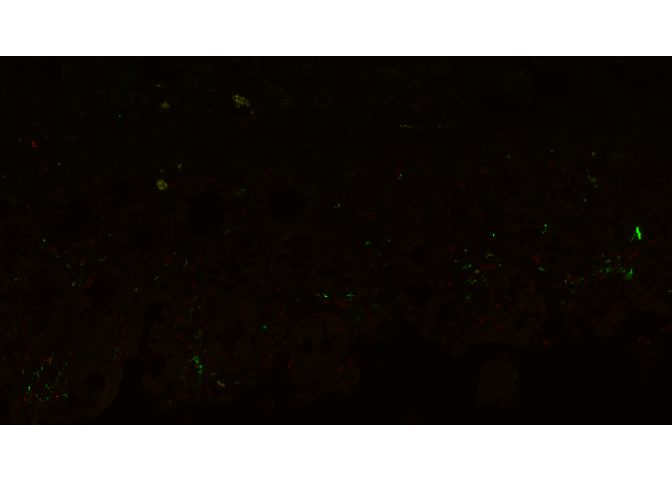
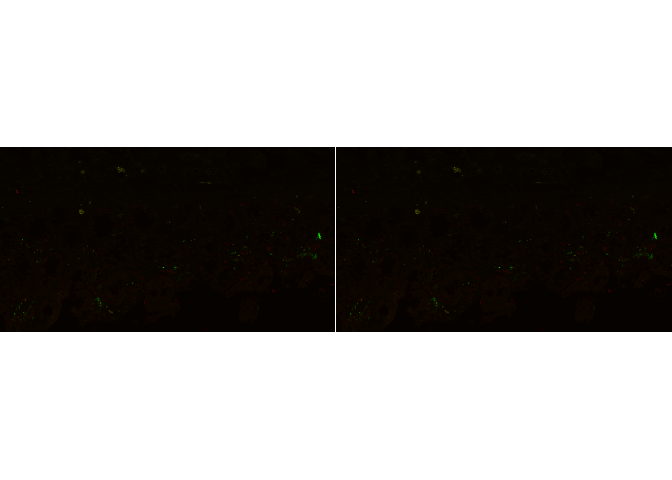
update readme

diff --git a/README.md b/README.md
@@ -80,13 +80,6 @@ df <- afMeasure(im1, im2, mask)
 
 ## Clustering with estimated k.
 afMask <- afIdentify(mask, df, minSize = 100, maxSize = Inf, k = 20, kAuto = TRUE)
-#> Warning: empty cluster: try a better set of initial centers
-
-#> Warning: empty cluster: try a better set of initial centers
-
-#> Warning: empty cluster: try a better set of initial centers
-
-#> Warning: empty cluster: try a better set of initial centers
 
 
 ## Remove autofluorescence from images
@@ -96,7 +89,8 @@ im1AFRemoved[afMask != 0] <- quantile(im1,0.25)
 im2AFRemoved[afMask != 0] <- quantile(im2,0.25)
 
 combinedRemoved <- EBImage::rgbImage(green = im1AFRemoved, red = im2AFRemoved)
-EBImage::display(combinedRemoved, all = TRUE, method = 'raster')
+img_comb = EBImage::combine(combined, combinedRemoved)
+EBImage::display(img_comb, all = TRUE, method = 'raster')
 ```
 
 ![](man/figures/README-unnamed-chunk-2-2.png)<!-- -->
@@ -109,11 +103,7 @@ EBImage::display(combinedRemoved, all = TRUE, method = 'raster')
 exclude1 = unique(mask1[afMask>0])
 mask1Removed = mask1
 mask1Removed[mask1Removed==exclude1] = 0
-#> Warning in e1@.Data == e2: longer object length is not a multiple of
-#> shorter object length
 exclude2 = unique(mask2[afMask>0])
 mask2Removed = mask2
 mask2Removed[mask2Removed==exclude2] = 0
-#> Warning in e1@.Data == e2: longer object length is not a multiple of
-#> shorter object length
 ```
